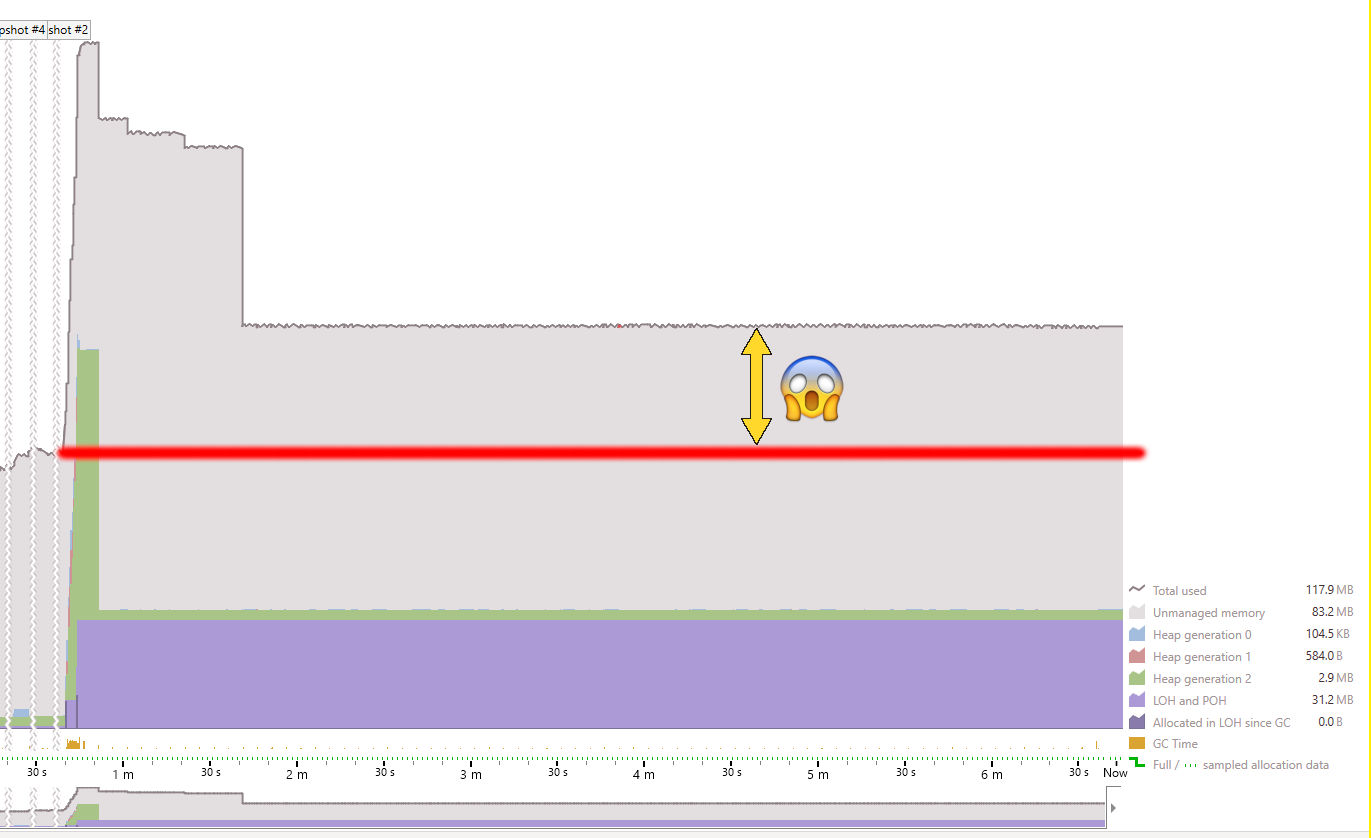
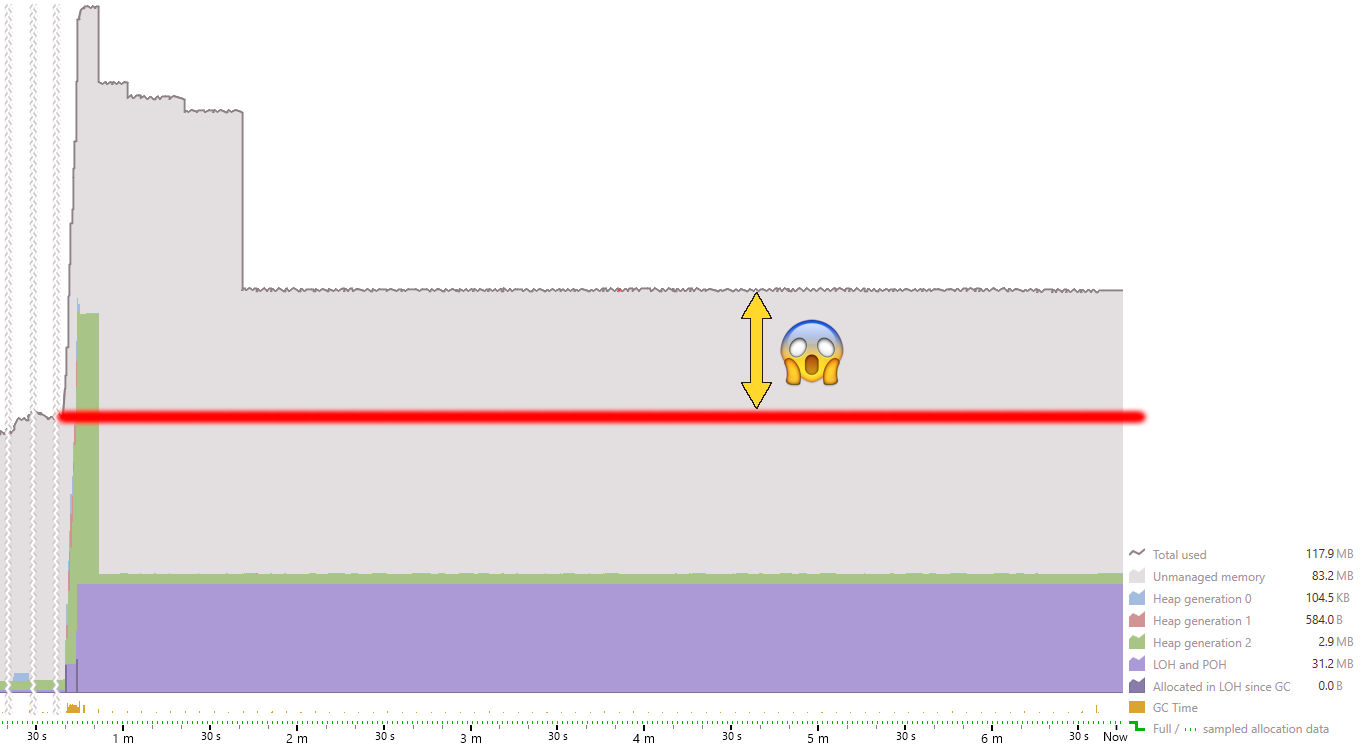
Update README.md

diff --git a/README.md b/README.md
@@ -1,4 +1,14 @@
-# MAUI.MemoryLeaks
+# MAUI Memory Leaks
 
+This repo aims to be self-explanatory from within the application.
+Please clone, build, and run.<br>
+
+The screenshots were taken using the dotMemory tool.
+<br>
+
+Case 1 illustrating that the memory is not being freed up:<br><br>
 ![Image1's Alt text](./mem_not_ok.jpg)
+
+<br><br><br>
+Case 1 fix (or rather workaround) showing the memory got reclaimed:<br><br>
 ![Image2's Alt text](./mem_ok.jpg)
